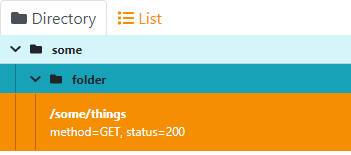
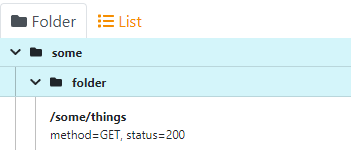
minor docu update

diff --git a/webapp/wiremock/src/app/components/layout/layout.component.html b/webapp/wiremock/src/app/components/layout/layout.component.html
@@ -4,7 +4,7 @@
       <li [ngbNavItem]="0">
         <a ngbNavLink class="wmNavLink">
           <fa-icon icon="folder"></fa-icon>
-          Directory</a>
+          Folder</a>
         <ng-template ngbNavContent>
           <wm-tree-view [items]="filteredItems" [activeItem]="activeItem"
                         (activeItemChange)="onActiveItemChange($event)"></wm-tree-view>

diff --git a/README.md b/README.md
@@ -60,6 +60,8 @@ will create following structure in gui:
 
 ![alt folder-image](./images/folder.png)
 
+In general functions when editing a mapping you can add the metadata structure via "add Folder".
+
 ### drag-and-drop
 drag-and-drop into folders is currently <b>not</b> supported. It is a more complex topic, as it is currently not possible to sort mappings. 
 
